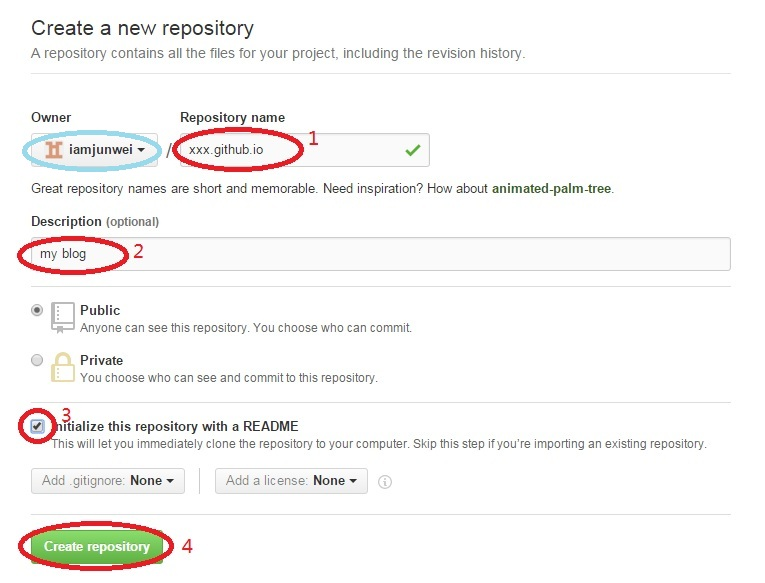
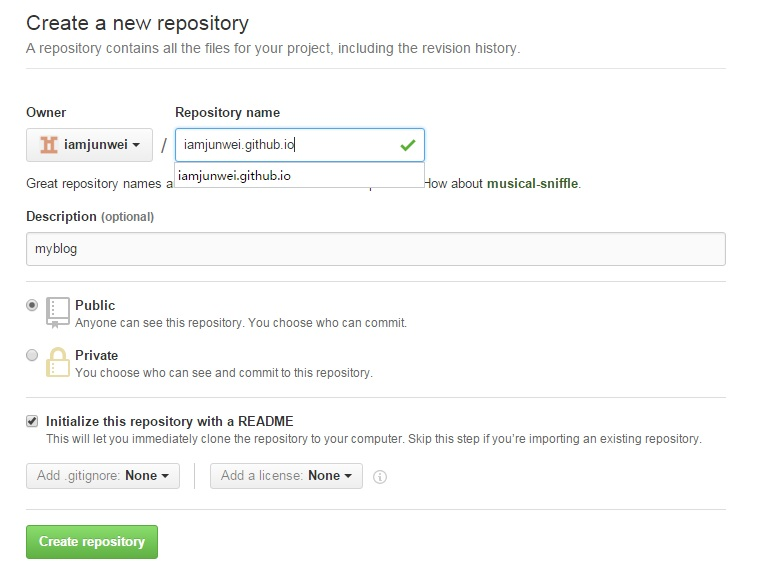
blog ssh key

diff --git a/source/_posts/hexo-github.md b/source/_posts/hexo-github.md
@@ -4,84 +4,75 @@ date: 2016-03-04 13:42:18
 categories: hexo
 tags: hexo
 ---
-## 前言
+## 1. 前言
 
 前两天看了篇文章《[我为什么坚持写博客？](https://mp.weixin.qq.com/s?__biz=MzA4NTQwNDcyMA==&mid=402564613&idx=1&sn=d2b7c75b11046a0dcf8df77e737d2b4c&scene=0&pass_ticket=C8WkBHPS440SZCkLCXZUWdrKgRD747hKE%2FYCSOsT8uou03NRavHIDfG1DiA6c%2Bxd)》，颇有感触，于是乎萌生了写博客的冲动。目前比较流行[Hexo](https://hexo.io/)+[Github](https://github.com/)来搭建博客，网上相关的资料也比较多。这篇文章主要是对自己搭建的过程进行一个总结。
 
-# 准备工作
-* 在[Node官网](https://nodejs.org/en/download/)下载安装文件并安装。[参考文献](http://jingyan.baidu.com/article/a948d6515d4c850a2dcd2e18.html)
-* 下载并安装[Git](http://git-scm.com/download/)
-* 请注意，下面介绍的搭建过程中，ownername和xxx.github.io都需要根据你搭建的实际情况进行替换。
+## 2. 准备工作
+2.1. 在[Node官网](https://nodejs.org/en/download/)下载安装文件并安装。[参考文献](http://jingyan.baidu.com/article/a948d6515d4c850a2dcd2e18.html)
+2.2. 下载并安装[Git](http://git-scm.com/download/)。
+2.3. **请注意**，我博客的名字是**iamjunwei**，下面介绍的搭建过程中，均是以**iamjunwei**为例进行说明的。你可以用自己喜欢的名字，替换**iamjunwei**即可。
 
-## 创建Github repository
+## 3. 创建Github repository
 
-* 注册一个Github账号（这里就不赘述了），登录成功以后，点击New repository。（需要登录注册的邮箱进行验证）
-* 填写基本信息，如下图所示。序号1填写repository name，其中xxx可替换成你的名称。序号2填写repository的描述。为方便起见，序号3可勾选，Github会自动产生一次commit和readMe文件。点击序号4创建repository。蓝色圈圈里的为你的repository的ownername
+3.1. 注册一个Github账号（username填入**iamjunwei**，填写邮箱密码即可）。登录成功以后，点击New repository。（需要登录注册的邮箱进行验证）
+3.2. 填写基本信息，如下图所示。Repository name填入iamjunwei.github.io，Description填入博客的描述，勾选Initialize this repository with a README，点击Create repository，完成创建过程。
 
 ![createGithubRepository](/images/createGithubRepository.jpg)
 
-* 创建成功后，默认的分支为master。创建一个新的分支hexo。master分支用于存放博客的静态页面，hexo分支用于存放hexo的网页生成代码。
+3.3. 创建成功后，默认的分支为master。创建一个新的分支hexoblog。master分支用于存放博客的静态页面，hexoblog分支用于存放hexo的网页生成代码。
 
 ![createGithubHexoBranch](/images/createGithubHexoBranch.jpg)
 
-* 在任意文件夹右键选择Git Bash，执行以下命令。其中“你的邮箱”可以是注册Github账号的邮箱，一直回车完成命令。这一步是在电脑内生成Github的ssh的密钥对。
+3.4. 在任意文件夹右键选择Git Bash，执行以下命令。其中“你的邮箱”可以是注册Github账号的邮箱。该命令会在电脑内生成Github的ssh的密钥对。具体的操作详见[生成并管理电脑内的ssh key](/2016/03/08/ssh-key/)。
 ```
 ssh-keygen -t rsa -C "你的邮箱"
 ```
-* 找到密钥文件夹（系统盘下，如C:\Users\username\\.ssh文件夹下），打开id_rsa.pub文件，复制其内容。
-* 打开之前创建好的Github repository页面，如下图所示。选择红色圈圈里的Settings选项。
+3.5. 找到密钥文件夹（系统盘下，如C:\Users\username\\.ssh文件夹下），打开上一步生成的对应pub文件，复制其内容。
+3.6. 打开之前创建好的Github repository页面，选择右上角下拉按钮中的Settings选项，如下图所示。
 
 ![createHexoBlogGithubSetting](/images/createHexoBlogGithubSetting.jpg)
 
-* 依次选择左侧菜单的SSH Key，右上角的New SSH Key，填写好Title，把复制好的id_rsa.pub中的内容粘贴到下方Key的文本框中，最后点击Add SSH Key完成SSH Key的添加。
+3.7. 依次选择左侧菜单的SSH Keys，右上角的New SSH Key，填写好Title，把复制好的pub文件内容粘贴到下方Key的文本框中，最后点击Add SSH Key完成SSH Key的添加。
 
 ![createHexoBlogGithubSSHKey](/images/createHexoBlogGithubSSHKey.jpg)
 
-* 本地对ssh key进行配置。在.ssh文件夹中，新建文件config，并编辑添加该ssh key的信息。其中ownername替换和之前一样，location为新的ssh key（如id_rsa.pub，带有pub的文件）的路径位置。
-```
-Host github.com
-HostName github.com
-User ownername
-PreferredAuthentications publickey
-IdentityFile location
-```
-
-## 安装部署Hexo，并关联Github repository
-* 本地创建文件夹（如E:\hexo，后面直接称呼文件夹），右键选择Git Bash
-* 依次运行以下命令。需要注意的是，这几步中，ownername和xxx都替换成之前创建repository时记录和修改的内容。完成之后，本地分支为hexo，对应远程分支为hexo。
+## 4. 安装部署Hexo，并关联Github repository
+4.1. 本地创建文件夹（如E:\hexoblog，后面直接称呼blogfolder），右键选择Git Bash。
+4.2. 依次运行以下命令。完成之后，本地分支为hexoblog，对应远程分支为hexoblog。
 ``` bash
 npm install -g hexo
 hexo init
 npm install hexo-deployer-git --save
 git init
-git remote add origin git@github.com:ownername/xxx.github.io.git
+git remote add origin git@github.com:iamjunwei/iamjunwei.github.io.git
 git pull
-git checkout -b hexo origin/hexo
+git checkout -b hexoblog origin/hexoblog
 ```
-* 修改文件夹中的_config.yml文件。在文件中找到deploy标签，并修改如下：
+4.3. 修改blogfolder文件夹中的_config.yml文件。在文件中找到deploy标签，并修改如下：
 ``` bash
 deploy:
   type: git
-  repository: git@github.com:ownername/xxx.github.io.git
+  repository: git@github.com:iamjunwei/iamjunwei.github.io.git
   branch: master
 ```
-* 依次执行以下命令，等待发布完成。（第一次deploy会提示确认host，输入yes并回车）
+4.4. 依次执行以下命令，等待发布完成。（第一次deploy可能会提示警告，输入yes并回车）
 ``` bash
 hexo clean
 hexo generate
 hexo deploy
 ```
-* 等待一段时间后，浏览器中打开`http://xxx.github.io`，就能看到博客的页面了（我等待了大概二十分钟）。
+4.5. 等待一段时间后，浏览器中打开`http://iamjunwei.github.io`，就能看到博客的页面了（我等待了大概二十分钟）。
 
-## 维护博客
-* 首先需要对hexo进行配置，参考[官方文档](https://hexo.io/docs/)
-* 选择一款自己喜欢的主题，[主题下载](https://hexo.io/themes/)
-* 每一款主题都有自己的文档，参照文档进行设置。我选择的是[NexT](http://theme-next.iissnan.com/)
-* 在文件夹中右键打开Git Bash，执行以下命令。其中filename是文章的文件名。新生成的文件位置在source/_post/filename.md。
+## 5. 维护博客
+5.1. 首先需要对hexo进行配置，参考[官方文档](https://hexo.io/docs/)。
+5.2. 选择一款自己喜欢的主题，[主题下载](https://hexo.io/themes/)。
+5.3. 每一款主题都有自己的文档，参照文档进行设置。我选择的是[NexT](http://theme-next.iissnan.com/)。
+5.4. 在blogfolder文件夹中右键打开Git Bash，执行以下命令。其中blogname是文章的文件名。新生成的文件位置在source/_post/blogname.md。
 ``` bash
-hexo new filename
+hexo new blogname
 ```
-* 编辑该文件的内容即可完成博客的书写。书写博客的语法为Markdown。[参考网站](http://sspai.com/25137)，[在线编辑器](https://www.zybuluo.com/mdeditor)，可以参考学习。一篇简单的博文内容如下。
+5.5. 编辑该文件的内容即可完成博客的书写。书写博客的语法为Markdown。[参考网站](http://sspai.com/25137)，[在线编辑器](https://www.zybuluo.com/mdeditor)，可以参考学习。一篇简单的博文内容如下。
 ``` bash
 ---
 title: 博文标题
@@ -89,38 +80,30 @@ date: 2016-03-06 17:32:43
 ---
 这是我的第一篇博客！
 ```
-* 有时候文章会出现乱码，需要保存为utf-8。（这篇文章是Sublime编辑的，Preference里的Setting Default设置）
-* 依次执行以下命令，将修改发布到远程仓库master分支，等待一段时间后，就可以看到这篇文章了。
+5.6. 有时候文章会出现乱码，需要保存为utf-8。（这篇文章是Sublime编辑的，Preference里的Setting Default设置）
+5.7. 在Git Bash中依次执行以下命令，将修改发布到远程仓库master分支，等待一段时间后，就可以看到这篇文章了。
 ``` bash
 hexo clean
 hexo generate
 hexo deploy
 ```
-* 提交代码至远程hexo分支。
-我们在新建和修改了博文以后，在文件夹中右键选择Git Bash，执行如下代码，其中commit message为提交的日志记录提示（如第一次文章）。执行完这些命令之后，我们就将网页生成代码提交到远程repository的hexo分支了。
+5.8. 提交代码至远程hexoblog分支。
+我们在新建和修改了博文以后，在blogfolder文件夹中右键选择Git Bash，执行如下代码，其中commit message为提交的日志记录提示（如第一篇文章）。执行完这些命令之后，我们就将网页生成代码提交到远程repository的hexoblog分支了。
 ``` bash
 git pull
 git add -A
 git commit -m "commit message"
 git pull --rebase
-git push origin hexo:hexo
+git push origin hexoblog:hexoblog
 ```
 
-
-## 如果换了地点或者电脑，如何维护博客呢？
-我们在创建repository的时候，创建了一个新的hexo分支，这个分支就是用于存放生成博客网站所需要的代码的。而master分支是存放生成出来的静态网页。
+## 6. 如果换了地点或者电脑，如何维护博客呢？
+我们在创建repository的时候，创建了一个新的hexoblog分支，这个分支就是用于存放生成博客网站所需要的代码的。而master分支是存放生成出来的静态网页。
 若我们更换了地点或者电脑之后，只需要依次：
-* 生成新的密钥对，并添加到Github repository的SSH Key。并在config文件中添加该ssh key的信息。其中ownername替换和之前一样，location为新的ssh key（如id_rsa.pub，带有pub的文件）的路径位置。
-```
-Host github.com
-HostName github.com
-User ownername
-PreferredAuthentications publickey
-IdentityFile location
-```
-* 任意文件夹右键选择Git Bash，执行以下命令。完成之后，文件夹中就是生成网页的代码了，接下来就可以尽情的撰写啦~
+* 生成新的密钥对，并添加到Github repository的SSH Key。步骤与3.4至3.7相同。
+* 任意文件夹右键选择Git Bash，执行以下命令。完成之后，当前文件夹的分支是hexoblog，对应远程hexoblog分支。这样我们就把网页生成代码拉取到本地了，接下来就可以尽情的撰写啦~
 ``` bash
-git clone git@github.com:ownername/xxx.github.io.git
-cd ./xxx.github.io
-git checkout -b hexo origin/hexo
+git clone git@github.com:iamjunwei/iamjunwei.github.io.git
+cd ./iamjunwei.github.io
+git checkout -b hexoblog origin/hexoblog
 ```

diff --git a/source/_posts/ssh-key.md b/source/_posts/ssh-key.md
@@ -1,0 +1,39 @@
+---
+title: 生成并管理电脑内的ssh key
+date: 2016-03-08 14:25:36
+categories: hexo
+tags: hexo
+---
+
+## 前言
+我们在Github上拉取和提交代码，有两种方式：ssh和http。http每次都需要输入用户名密码，相对比较繁琐。而ssh则不用，只需要在电脑和Github上配置好密钥对即可。这篇文章介绍一下如何创建和配置ssh key。
+
+## 准备工作
+下载并安装[Git](http://git-scm.com/download/)。
+
+## 查看本机是否存在ssh key
+打开系统盘:\Users\Username（如C:\Users\iamjunwei），若存在.ssh文件夹，则已经存在ssh key，打开该文件夹可以看到所有的ssh key。
+
+## 创建新的ssh key
+* 在任意文件夹右键选择Git Bash。
+* 执行以下命令。请将命令替换成你的邮箱（如mike123456@163.com）。
+``` bash
+ssh-keygen -t rsa -C "你的邮箱"
+```
+* 接下来会出现以下提示。其中括号里的路径应该是你之前查看ssh key的文件夹路径（这里只是举例，用的是我自己的路径）。这一步是提示输入你需要创建的ssh key的文件名，默认为id_rsa。为了避免与其他ssh key产生覆盖，我们新建一组ssh key文件。输入**/c/Users/iamjunwei/.ssh/github_iamjunwei**后，按回车确认。再一直按回车，直至命令完成。请注意：**/c/Users/iamjunwei/.ssh**请替换成你的ssh key文件夹路径，**github_iamjunwei**请替换成你新建的ssh key文件名。
+``` bash
+Generating public/private rsa key pair.
+Enter file in which to save the key (/c/Users/iamjunwei/.ssh/id_rsa):
+```
+* 重新回到ssh key的文件夹下，可以发现，此时已经产生了两个新文件github_iamjunwei和github_iamjunwei.pub（这里只是举例，实际产生的是你输入的文件名）。
+
+## 管理ssh key
+在ssh key的文件夹下，创建一个文件config（无后缀名）。编辑config文件，新增一段内容如下。其中User字段后面请替换成你对应github的username，IdentityFile请替换成你生成的ssh key文件的路径。
+``` bash
+Host github.com
+HostName github.com
+User iamjunwei
+PreferredAuthentications publickey
+IdentityFile /c/Users/iamjunwei/.ssh/github_iamjunwei
+```
+大功告成！
